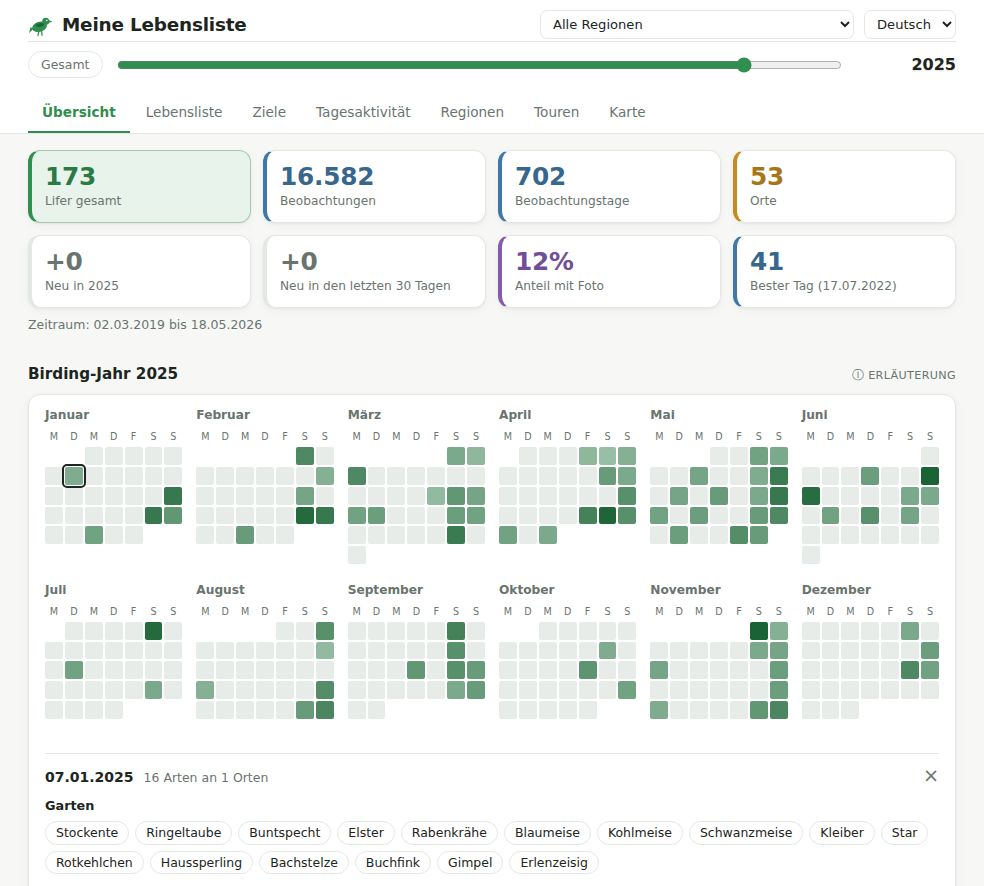
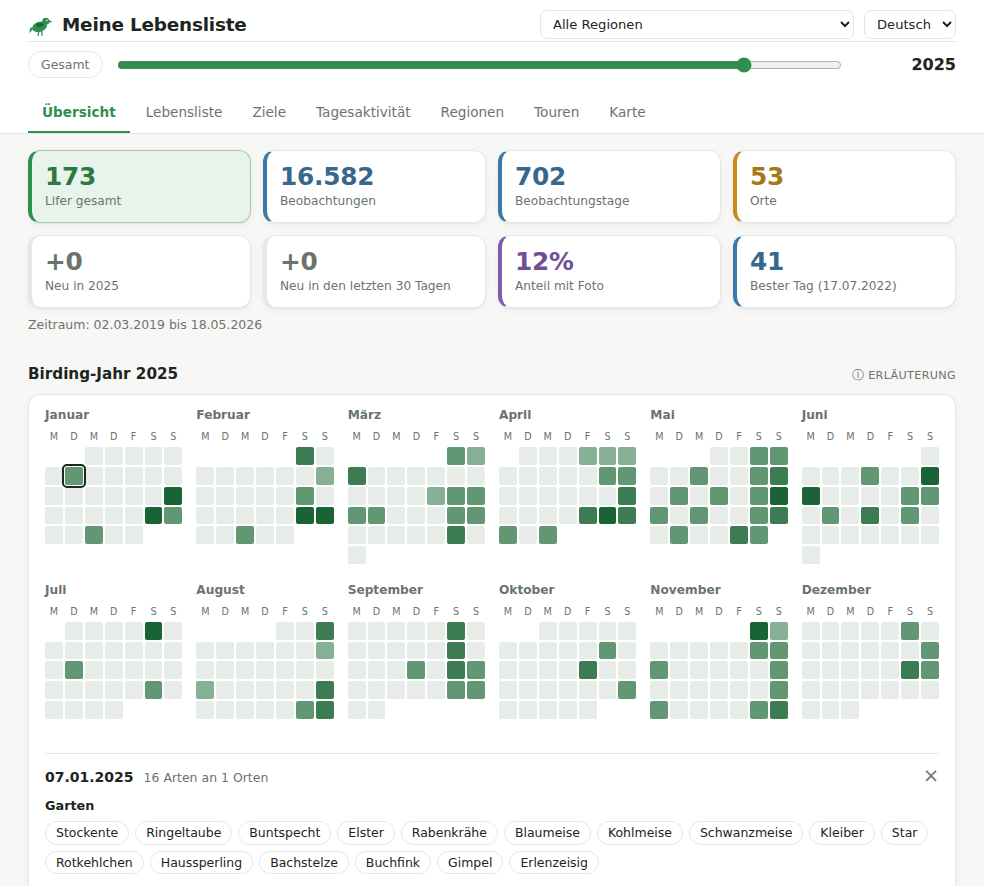
Feature: Compare rows, colour steps and range selection in the heat tables

diff --git a/src/heat.js b/src/heat.js
@@ -1,8 +1,9 @@
 /* ---------- heat tables ---------- */
 // One builder for the heat tables (year x month, month x hour, weekday x hour, region x month): cells
-// counted by the table's own metric (records, species or days), totals for every row and column as bars
-// at the edges, a crosshair and tooltip on hover (app.js), and a click on a cell or a total that opens
-// its species. Each table registers its spec under a `kind`; a metric change or a click then redraws
+// counted by the table's own metric (records, species or days) in at most five colour steps, optionally
+// relative to each row's own maximum ("Zeilen vergleichen"), totals for every row and column as bars at
+// the edges, a crosshair and tooltip on hover (app.js), and a click on a cell or a total, or a drag across
+// several cells, that opens their species. Each table registers its spec under a `kind`; a metric change or a click then redraws
 // only that table (heatCard), not the tab around it.
 /**
  * @typedef {Object} HeatSpec
@@ -26,15 +27,26 @@ const heatVal = (a, metric) => metric === "obs" ? a.n : metric === "species" ? a
 const heatTip = (name, a) => `${name}: ${t("heatTip", fmtN(a.n), fmtN(a.s.size), fmtN(a.d.size))}`;
 // a cell key: "<row key>|<column index>", "*" standing for a whole row or column
 const heatKey = (row, col) => `${row}|${col}`;
+// a dragged range: "~<row key>~<row key>~<column>~<column>" (its corners)
+const heatRangeKey = (ra, rb, ca, cb) => `~${ra}~${rb}~${ca}~${cb}`;
+/** @returns {{r0: number, r1: number, c0: number, c1: number}|null} the range's rows and columns, in order */
+function heatRange(spec, key) {
+  if (!key || !key.startsWith("~")) return null;
+  const [, ra, rb, ca, cb] = key.split("~");
+  const ia = spec.rows.indexOf(ra), ib = spec.rows.indexOf(rb);
+  if (ia < 0 || ib < 0) return null;
+  return { r0: Math.min(ia, ib), r1: Math.max(ia, ib), c0: Math.min(+ca, +cb), c1: Math.max(+ca, +cb) };
+}
 /** @param {string} kind @param {HeatSpec} spec */
 function heatSection(kind, spec) {
   HEATS[kind] = spec;
   return `<div class="heat-wrap" id="heat-${kind}">${heatCard(kind)}</div>`;
 }
-// the "zählen nach" picker for a heading
+// the controls for a heading: what the table counts, and whether each row is coloured on its own
 function heatMetricPick(kind) {
   return `<label class="ctl">${t("actCountBy")}<select data-heat-metric="${kind}" aria-label="${esc(t("ariaMetric"))}">${HEAT_METRICS.map(([k, l]) =>
-    `<option value="${k}"${k === S.heatMetric[kind] ? " selected" : ""}>${t(l)}</option>`).join("")}</select></label>`;
+    `<option value="${k}"${k === S.heatMetric[kind] ? " selected" : ""}>${t(l)}</option>`).join("")}</select></label>
+    <label class="ctl"><input type="checkbox" data-heat-norm="${kind}"${S.heatNorm[kind] ? " checked" : ""}> ${t("heatNorm")}</label>`;
 }
 function redrawHeat(kind) {
   const box = $(`heat-${kind}`);
@@ -52,14 +64,19 @@ function heatCard(kind) {
   }
   const val = a => heatVal(a, metric);
   const max = Math.max(1, ...cells.flat().map(val)), maxR = Math.max(1, ...rowT.map(val)), maxC = Math.max(1, ...colT.map(val));
+  // "Zeilen vergleichen": every row coloured against its own maximum, the numbers stay the real ones
+  const rel = !!S.heatNorm[kind], rowMax = cells.map(row => Math.max(1, ...row.map(val)));
+  const scale = heatScale(max, rel), range = heatRange(spec, sel);
+  const inRange = (r, c) => !!range && r >= range.r0 && r <= range.r1 && c >= range.c0 && c <= range.c1;
   const attrs = (key, name, a) => { const tip = heatTip(name, a);
     return ` data-heat="${kind}" data-key="${esc(key)}" data-tip="${esc(tip)}" role="button" tabindex="0" aria-pressed="${sel === key}" aria-label="${esc(tip)}"`; };
   const total = t("heatTotal");
   const body = spec.rows.map((rk, r) => `<tr><td class="y" title="${esc(spec.rowNames[r])}">${spec.rowLabels[r]}</td>${cells[r].map((a, c) => {
-    const v = val(a);
-    if (!v) return `<td data-c="${c}"></td>`;
-    const key = heatKey(rk, c), cls = [v / max > HEAT_INK_FROM ? "hot" : "", sel === key ? "sel" : ""].join(" ").trim();
-    return `<td data-c="${c}"${attrs(key, `${spec.rowNames[r]}, ${spec.colNames[c]}`, a)} class="${cls}" style="background:${heatColor(v / max)}">${spec.numbers ? v : ""}</td>`;
+    const v = val(a), rng = inRange(r, c) ? " in-rng" : "";
+    if (!v) return `<td data-r="${r}" data-c="${c}"${rng ? ` class="${rng.trim()}"` : ""}></td>`;
+    const key = heatKey(rk, c), i = scale.step(rel ? v / rowMax[r] : v);
+    const cls = [scale.hot(i) ? "hot" : "", sel === key ? "sel" : ""].join(" ").trim() + rng;
+    return `<td data-r="${r}" data-c="${c}"${attrs(key, `${spec.rowNames[r]}, ${spec.colNames[c]}`, a)} class="${cls}" style="background:${scale.color(i)}">${spec.numbers ? v : ""}</td>`;
   }).join("")}${val(rowT[r]) ? `<td class="tot${sel === heatKey(rk, "*") ? " sel" : ""}"${attrs(heatKey(rk, "*"), `${spec.rowNames[r]}, ${total}`, rowT[r])}>
     <span class="tot-bar"><i style="width:${val(rowT[r]) / maxR * 100}%"></i></span><span class="tot-n">${fmtN(val(rowT[r]))}</span></td>` : "<td></td>"}</tr>`).join("");
   const foot = `<tr class="tot-row"><td class="y" title="${esc(total)}">Σ</td>${colT.map((a, c) => {
@@ -67,22 +84,33 @@ function heatCard(kind) {
     return v ? `<td data-c="${c}" class="tot-c${sel === key ? " sel" : ""}"${attrs(key, `${spec.colNames[c]}, ${total}`, a)}><span class="tot-vbar"><i style="height:${v / maxC * 100}%"></i></span>${spec.numbers ? `<span class="tot-n">${fmtN(v)}</span>` : ""}</td>` : `<td data-c="${c}"></td>`;
   }).join("")}<td></td></tr>`;
   return `<div class="card"><table class="heat heat-x ${spec.cls || ""}"><thead><tr><th></th>${spec.colLabels.map((l, c) => `<th data-c="${c}">${l}</th>`).join("")}<th class="tot-h" title="${esc(total)}">Σ</th></tr></thead>
-    <tbody>${body}</tbody><tfoot>${foot}</tfoot></table>${sel ? heatPanel(kind, spec, sel) : ""}</div>${heatLegend(max)}`;
+    <tbody>${body}</tbody><tfoot>${foot}</tfoot></table>${sel ? heatPanel(kind, spec, sel) : ""}</div>${scale.legend}`;
 }
-// the species behind a cell, a row total or a column total
+// the species behind a cell, a row or column total, or a dragged range of cells
 function heatPanel(kind, spec, key) {
-  const i = key.lastIndexOf("|"), rk = key.slice(0, i), ck = key.slice(i + 1);
-  const r = rk === "*" ? -1 : spec.rows.indexOf(rk), c = ck === "*" ? -1 : +ck;
-  if (rk !== "*" && r < 0) return "";
+  let r0 = 0, r1 = spec.rows.length - 1, c0 = 0, c1 = spec.colLabels.length - 1, title;
+  const range = heatRange(spec, key);
+  if (range) {
+    ({ r0, r1, c0, c1 } = range);
+    const span = (names, a, b) => a === b ? names[a] : `${names[a]} – ${names[b]}`;
+    title = `${span(spec.rowNames, r0, r1)}, ${span(spec.colNames, c0, c1)}`;
+  } else {
+    if (key.startsWith("~")) return "";  // a range whose rows are gone
+    const i = key.lastIndexOf("|"), rk = key.slice(0, i), ck = key.slice(i + 1);
+    const r = rk === "*" ? -1 : spec.rows.indexOf(rk), c = ck === "*" ? -1 : +ck;
+    if (rk !== "*" && r < 0) return "";
+    if (r >= 0) r0 = r1 = r;
+    if (c >= 0) c0 = c1 = c;
+    title = r < 0 ? `${spec.colNames[c]}, ${t("heatTotal")}` : c < 0 ? `${spec.rowNames[r]}, ${t("heatTotal")}` : `${spec.rowNames[r]}, ${spec.colNames[c]}`;
+  }
   const obs = spec.obs.filter(o => { const or = spec.rowOf(o), oc = spec.colOf(o);
-    return or >= 0 && oc >= 0 && (r < 0 || or === r) && (c < 0 || oc === c); });
+    return or >= r0 && or <= r1 && oc >= c0 && oc <= c1; });
   if (!obs.length) return "";
   // species whose very first record lies in here get the NEU mark
   const inHere = new Set(obs);
   const newSp = new Set([...speciesStats(baseObs()).values()].filter(x => inHere.has(x.first)).map(x => x.s));
   const acc = heatAcc();
   for (const o of obs) { acc.n++; acc.s.add(o.s); acc.d.add(o.d); }
-  const title = r < 0 ? `${spec.colNames[c]}, ${t("heatTotal")}` : c < 0 ? `${spec.rowNames[r]}, ${t("heatTotal")}` : `${spec.rowNames[r]}, ${spec.colNames[c]}`;
   return cellPanel(title, t("heatTip", fmtN(acc.n), fmtN(acc.s.size), fmtN(acc.d.size)) + (newSp.size ? " · " + t("calDayLifers", newSp.size) : ""),
     `data-heat="${kind}" data-key="${esc(key)}"`, speciesChipsOf(obs, s => newSp.has(s)));
 }

diff --git a/src/i18n.js b/src/i18n.js
@@ -84,8 +84,9 @@ de: {
   perYearHelp: "Der dunkle Teil des Balkens und die linke Zahl zeigen den Stand bis zum {0} des jeweiligen Jahres, der helle Teil den Rest des Jahres. „Neu“ sind Arten, die in diesem Jahr erstmals gemeldet wurden.",
   colYear: "Jahr", colTotal: "Gesamt", colNew: "Neu", colUntil: "bis {0}",
   curve: "Lebenslistenkurve", curveHelp: "Jeder Punkt ist eine Art an ihrem Erstnachweis. Ein Klick darauf öffnet die Art in der Lebensliste.",
-  heat: "Jahr und Monat", heatHelp: "Je Jahr und Monat, gezählt nach der Auswahl rechts: Beobachtungen, Arten oder Beobachtungstage. Rechts und unten stehen die Summen jeder Zeile und Spalte. Ein Klick auf eine Zelle oder eine Summe zeigt die Arten dahinter.",
+  heat: "Jahr und Monat", heatHelp: "Je Jahr und Monat, gezählt nach der Auswahl rechts: Beobachtungen, Arten oder Beobachtungstage. Rechts und unten stehen die Summen jeder Zeile und Spalte. Ein Klick auf eine Zelle oder eine Summe zeigt die Arten dahinter; mit gedrückter Maustaste über mehrere Zellen ziehen zeigt die Arten des ganzen Bereichs. „Zeilen vergleichen“ färbt jede Zeile nach ihrem eigenen Höchstwert, so lassen sich Muster verschiedener Jahre vergleichen.",
   heatTip: "{0} Beobachtungen · {1} Arten · {2} Tage", heatTotal: "gesamt",
+  heatNorm: "Zeilen vergleichen", heatUpTo: "bis {0} %", heatRelNote: "des Höchstwerts der Zeile",
   latest: "Neueste Lifer", latestHelp: "Die zuletzt erstmals nachgewiesenen Arten. Ein Klick öffnet die Art in der Lebensliste.",
   topPlaces: "Top-Orte", topPlacesHelp: "Die 10 Orte mit den meisten unterschiedlichen Arten.",
   newBadge: "NEU",
@@ -204,8 +205,9 @@ en: {
   perYearHelp: "Dark bar and left number: total by {0} of that year. Light bar: rest of the year. \"New\" = first reported that year.",
   colYear: "Year", colTotal: "Total", colNew: "New", colUntil: "through {0}",
   curve: "Life list curve", curveHelp: "Each point is a species at its first record. Click one to open it in the life list.",
-  heat: "Year and month", heatHelp: "Per year and month, counted by the choice on the right: observations, species or observation days. The totals of every row and column stand at the right and bottom. Click a cell or a total to see the species behind it.",
+  heat: "Year and month", heatHelp: "Per year and month, counted by the choice on the right: observations, species or observation days. The totals of every row and column stand at the right and bottom. Click a cell or a total to see the species behind it; drag across several cells to see those of the whole range. \"Compare rows\" colours each row against its own highest value, to compare the patterns of different years.",
   heatTip: "{0} observations · {1} species · {2} days", heatTotal: "total",
+  heatNorm: "compare rows", heatUpTo: "up to {0}%", heatRelNote: "of the row's highest value",
   latest: "Latest life species", latestHelp: "The most recently added life species. Click one to open it in the life list.",
   topPlaces: "Top places", topPlacesHelp: "The 10 places with the most different species.",
   newBadge: "NEW",

diff --git a/src/app.js b/src/app.js
@@ -307,7 +307,9 @@ function init() {
     if (sp) openSpecies(+sp.dataset.sp);
   });
   // heat tables (heat.js): a cell or total opens its species, a second click closes them; the picker changes what they count
+  let heatDragged = false;  // a drag just selected a range: the click that ends it opens nothing else
   $$("main").addEventListener("click", e => {
+    if (heatDragged) { heatDragged = false; return; }
     const cell = e.target.closest("[data-heat]");
     if (!cell) return;
     const kind = cell.dataset.heat, key = cell.dataset.key;
@@ -316,11 +318,46 @@ function init() {
     refocus(`td[data-heat="${kind}"][data-key="${CSS.escape(key)}"]`);
   });
   $$("main").addEventListener("change", e => {
+    const norm = e.target.dataset?.heatNorm;
+    if (norm) { S.heatNorm[norm] = e.target.checked; redrawHeat(norm); return; }
     const kind = e.target.dataset?.heatMetric;
     if (!kind) return;
     S.heatMetric[kind] = e.target.value;
     S.heatSel[kind] = null;
     redrawHeat(kind);
+  });
+  // dragging across heat cells with the mouse selects a range and opens its species
+  let drag = null;
+  const cellAt = el => el?.closest?.("table.heat-x tbody td[data-r]");
+  const markDrag = () => {
+    for (const td of drag.table.querySelectorAll("td.rng")) td.classList.remove("rng");
+    const [r0, r1] = [Math.min(drag.r0, drag.r1), Math.max(drag.r0, drag.r1)], [c0, c1] = [Math.min(drag.c0, drag.c1), Math.max(drag.c0, drag.c1)];
+    for (const td of drag.table.querySelectorAll("tbody td[data-r]"))
+      if (+td.dataset.r >= r0 && +td.dataset.r <= r1 && +td.dataset.c >= c0 && +td.dataset.c <= c1) td.classList.add("rng");
+  };
+  $$("main").addEventListener("pointerdown", e => {
+    const td = cellAt(e.target);
+    if (!td || e.pointerType !== "mouse" || e.button !== 0) return;
+    drag = { kind: td.closest(".heat-wrap").id.slice(5), table: td.closest("table"), r0: +td.dataset.r, c0: +td.dataset.c, r1: +td.dataset.r, c1: +td.dataset.c };
+    e.preventDefault();  // no text selection while dragging
+  });
+  document.addEventListener("pointermove", e => {
+    if (!drag) return;
+    const td = cellAt(document.elementFromPoint(e.clientX, e.clientY));
+    if (!td || td.closest("table") !== drag.table || (+td.dataset.r === drag.r1 && +td.dataset.c === drag.c1)) return;
+    drag.r1 = +td.dataset.r; drag.c1 = +td.dataset.c;
+    markDrag();
+  });
+  document.addEventListener("pointerup", () => {
+    if (!drag) return;
+    const d = drag;
+    drag = null;
+    if (d.r0 === d.r1 && d.c0 === d.c1) return;  // a plain click: the click handler opens the cell
+    const rows = HEATS[d.kind].rows;
+    S.heatSel[d.kind] = heatRangeKey(rows[d.r0], rows[d.r1], d.c0, d.c1);
+    heatDragged = true;
+    setTimeout(() => { heatDragged = false; });  // in case no click follows (the mouse left the table)
+    redrawHeat(d.kind);
   });
   // a styled tooltip for everything with a data-tip (heat cells, calendar days), and a crosshair on the
   // hovered heat cell's row and column

diff --git a/template.html b/template.html
@@ -190,6 +190,14 @@ table.heat{table-layout:fixed;min-width:560px}
 .heat-x td.tot-c .tot-n{display:block;margin:2px 0 0;text-align:center}
 .heat-x td.tot,.heat-x td.tot-c{cursor:pointer}
 .heat-x td.tot.sel,.heat-x td.tot-c.sel{outline:2px solid var(--text);outline-offset:-2px}
+.heat-x tbody td[data-r]{user-select:none}
+.heat-x td.rng{outline:2px dashed var(--text);outline-offset:-2px}
+.heat-x td.in-rng{box-shadow:inset 0 0 0 2px var(--text)}
+.heat-steps{flex-wrap:wrap;gap:4px 12px}
+.heat-steps .hs{display:inline-flex;align-items:center;gap:4px;font-variant-numeric:tabular-nums}
+.heat-steps .hs i{display:inline-block;width:14px;height:10px;border-radius:2px}
+.heat-steps .hs-note{color:var(--muted)}
+h2 .ctl input[type=checkbox]{margin:0 2px 0 0;vertical-align:-2px;accent-color:var(--accent)}
 #tip{position:fixed;z-index:60;pointer-events:none;max-width:300px;padding:5px 9px;border-radius:7px;font-size:.75rem;line-height:1.35;
   background:var(--text);color:var(--card);box-shadow:0 4px 14px rgba(0,0,0,.25)}
 table.heat.rm th:first-child{width:11rem}
@@ -340,7 +348,7 @@ footer.meta-footer .btn{flex:0 0 auto;padding:3px 10px}
   .toc{display:none!important}
   tr.grp .grp-t::before{display:none}
   .wish-io{display:none!important}
-  .cal-panel,details.tour-settings,#tip,h2 .ctl select{display:none!important}
+  .cal-panel,details.tour-settings,#tip,h2 .ctl{display:none!important}
   .heat td.sel,.cal-day.cal-sel{outline:none!important}
   .printonly{display:block}
   section.tab{display:block!important;padding-top:0}
@@ -353,7 +361,7 @@ footer.meta-footer .btn{flex:0 0 auto;padding:3px 10px}
   .hide-sm{display:revert!important}
   th.hide-sm,td.hide-sm{display:table-cell!important}
   .show-sm{display:none!important}
-  .wd-ring circle,.bar,.bar i,.heat td,.pheno div,.cal-day,.season-strip,.season-strip *{-webkit-print-color-adjust:exact;print-color-adjust:exact}
+  .heat-steps .hs i,.wd-ring circle,.bar,.bar i,.heat td,.pheno div,.cal-day,.season-strip,.season-strip *{-webkit-print-color-adjust:exact;print-color-adjust:exact}
   details.info summary{display:none!important}
   h2 + details.info{margin-top:0;text-align:left}
   h2 .ctl select{appearance:none;border:0;padding:0;background:none;font-weight:600;color:var(--text)}

diff --git a/src/data.js b/src/data.js
@@ -101,7 +101,8 @@ if (initialTheme !== "system") document.documentElement.setAttribute("data-theme
  * @property {string} wishQ - wishlist search text
  * @property {string|null} calDay - "YYYY-MM-DD" of the day opened in the overview calendar
  * @property {Object<string, string>} heatMetric - what each heat table counts ("obs", "species", "days"), by its kind (see heat.js)
- * @property {Object<string, string|null>} heatSel - the open cell of each heat table, by its kind
+ * @property {Object<string, string|null>} heatSel - the open cell (or dragged range) of each heat table, by its kind
+ * @property {Object<string, boolean>} heatNorm - heat tables whose rows are each coloured against their own maximum
  * @property {string} regMonthLvl - level of the region x month table's rows: "s"|"c"|"m"|"p"
  * @property {any} tourCfg - tour settings (a TourCfg, see tours.js), kept in localStorage
  * @property {boolean} tourSetOpen - the tours' settings menu is unfolded
@@ -114,7 +115,7 @@ if (initialTheme !== "system") document.documentElement.setAttribute("data-theme
 const S = { tab: "overview", region: "all", year: Math.min(TODAY_Y, MAX_Y), month: TODAY_M, timeAll: true, lang: initialLang, theme: initialTheme,
   escaped: false, collective: false, atlasF: "all", actMetric: "obs", redact: !!RAW.meta.redacted, metric: "life", q: "", sort: "nr", dir: -1, open: new Set(),
   regSort: {}, regAll: {}, targetSrc: "all", customTargets: loadCustomTargets(), wishSort: { k: "season", d: 1 },
-  wishOpen: null, wishQ: "", calDay: null, heatMetric: { ym: "species", m: "obs", w: "obs", rm: "days" }, heatSel: {}, regMonthLvl: "c", tourCfg: null, tourSetOpen: false, tourSort: { k: "date", d: -1 }, tourOpen: new Set(), tourAll: false, tourRoute: null, focusSp: null };
+  wishOpen: null, wishQ: "", calDay: null, heatMetric: { ym: "species", m: "obs", w: "obs", rm: "days" }, heatSel: {}, heatNorm: {}, regMonthLvl: "c", tourCfg: null, tourSetOpen: false, tourSort: { k: "date", d: -1 }, tourOpen: new Set(), tourAll: false, tourRoute: null, focusSp: null };
 T = STR[S.lang];
 
 /* ---------- helpers ---------- */

diff --git a/src/charts.js b/src/charts.js
@@ -51,10 +51,30 @@ function curveSvg(chrono) {
 function heatColor(frac) {
   return `color-mix(in srgb, var(--heat-hi) ${Math.round(8 + Math.max(0, Math.min(1, frac)) * 92)}%, var(--heat-lo))`;
 }
-// cells past this share of the maximum are dark enough to need the light --heat-ink text
+// cells past this share of the scale are dark enough to need the light --heat-ink text
 const HEAT_INK_FROM = 0.55;
-function heatLegend(max) {
-  return `<div class="legend"><span>0</span><div class="grad"></div><span>${max}</span></div>`;
+/**
+ * A colour scale of at most five clearly different steps (easier to read, to print and for colour-blind
+ * eyes than a smooth gradient). For counts up to `max`, or, with `relative`, for shares of 20/40/60/80/100 %.
+ * @param {number} max @param {boolean} [relative]
+ * @returns {{step: (v: number) => number, color: (i: number) => string, hot: (i: number) => boolean, legend: string}}
+ */
+function heatScale(max, relative = false) {
+  /** @type {number[]} */
+  const bounds = [];
+  if (relative) bounds.push(0.2, 0.4, 0.6, 0.8, 1);
+  else if (max <= 5) for (let v = 1; v <= max; v++) bounds.push(v);
+  else for (let k = 1; k <= 5; k++) { const b = k === 5 ? max : Math.round(max * k / 5); if (!bounds.length || b > bounds[bounds.length - 1]) bounds.push(b); }
+  const n = bounds.length;
+  const color = i => heatColor((i + 1) / n);
+  const labels = bounds.map((b, i) => relative ? t("heatUpTo", Math.round(b * 100))
+    : (i ? bounds[i - 1] + 1 : 1) === b ? fmtN(b) : `${fmtN(i ? bounds[i - 1] + 1 : 1)}–${fmtN(b)}`);
+  return {
+    step: v => v <= 0 ? -1 : bounds.findIndex(b => v <= b + 1e-9),
+    color,
+    hot: i => (i + 1) / n > HEAT_INK_FROM,
+    legend: `<div class="legend heat-steps">${labels.map((l, i) => `<span class="hs"><i style="background:${color(i)}"></i>${l}</span>`).join("")}${relative ? `<span class="hs-note">${t("heatRelNote")}</span>` : ""}</div>`,
+  };
 }
 // a species as a chip that opens it in the life list; `note` is e.g. a count, `isNew` adds the NEU badge
 function speciesChip(s, note = "", isNew = false) {

diff --git a/src/overview.js b/src/overview.js
@@ -69,6 +69,7 @@ function calendarSection(list, statsAll) {
   if (!dayData.size) return "";
   let max = 1;
   for (const sp of dayData.values()) max = Math.max(max, sp.size);
+  const scale = heatScale(max);
   const liferDays = new Set([...statsAll.values()].filter(r => r.first.y === year).map(r => r.first.d));
   const dowLetters = T.weekdays.map(w => w[0]);
   const months = T.months.map((name, mi) => {
@@ -83,7 +84,7 @@ function calendarSection(list, statsAll) {
       const sp = dayData.get(dateStr);
       const n = sp ? sp.size : 0;
       const lifer = liferDays.has(dateStr);
-      const bg = n ? heatColor(n / max) : "var(--cal-empty)";
+      const bg = n ? scale.color(scale.step(n)) : "var(--cal-empty)";
       const title = n ? `${fmtD(dateStr)}: ${n} ${t("mapSpecies")}${lifer ? " · " + t("newBadge") : ""}` : fmtD(dateStr);
       cells += n
         ? `<button type="button" class="cal-day${lifer ? " cal-lifer" : ""}${S.calDay === dateStr ? " cal-sel" : ""}" data-day="${dateStr}" style="background:${bg}" data-tip="${esc(title)}" aria-label="${esc(title)}" aria-pressed="${S.calDay === dateStr}"></button>`
@@ -98,7 +99,7 @@ function calendarSection(list, statsAll) {
   return `<h2 data-toc="${esc(t("tocCal"))}">${t("calTitle", year)}</h2>
     ${infoText(t("calHelp"))}
     <div class="card"><div class="cal-months-wrap">${months}</div>${dayData.has(S.calDay || "") ? calDayPanel(list, statsAll, S.calDay) : ""}</div>
-    ${heatLegend(max)}`;
+    ${scale.legend}`;
 }
 // what was seen on one calendar day, grouped by place; each species opens its row in the life list
 function calDayPanel(list, statsAll, day) {

diff --git a/tests/test_page.py b/tests/test_page.py
@@ -248,6 +248,31 @@ class PageTest(unittest.TestCase):
         self.assertEqual(page.locator("#heat-ym .cal-panel").count(), 0)  # a new metric closes the open cell
         self.assertEqual(self.errors, [])
 
+    def test_heat_steps_compare_rows_and_range(self):
+        page = self.open()
+        cells = '#heat-ym tbody td[data-heat]:not(.tot)'
+        # at most five colour steps, with a legend for each
+        colours = set(page.eval_on_selector_all(cells, "tds => tds.map(td => td.style.background)"))
+        self.assertLessEqual(len(colours), 5)
+        steps = page.locator("#heat-ym .heat-steps .hs").count()
+        self.assertTrue(len(colours) <= steps <= 5, (len(colours), steps))
+        # comparing rows recolours, but keeps the numbers
+        numbers = page.eval_on_selector_all(cells, "tds => tds.map(td => td.textContent)")
+        page.check('[data-heat-norm="ym"]')
+        self.assertEqual(page.eval_on_selector_all(cells, "tds => tds.map(td => td.textContent)"), numbers)
+        self.assertIn("bis 100 %", page.inner_text("#heat-ym .heat-steps"))
+        # dragging across cells opens the species of the whole range
+        first, last = page.locator(cells).nth(0), page.locator(cells).nth(13)  # two rows, two months
+        first.scroll_into_view_if_needed()
+        a, b = first.bounding_box(), last.bounding_box()
+        page.mouse.move(a["x"] + 5, a["y"] + 5)
+        page.mouse.down()
+        page.mouse.move(b["x"] + 5, b["y"] + 5, steps=5)
+        page.mouse.up()
+        self.assertIn(" – ", page.inner_text("#heat-ym .cal-panel-h"))
+        self.assertEqual(page.locator("#heat-ym td.in-rng").count(), 4)
+        self.assertEqual(self.errors, [])
+
     def test_region_coverage_has_its_own_picker(self):
         page = self.open(hash="#regions")
         region = page.eval_on_selector_all("#reg-cov option", "os => os.map(o => o.value)")[1]
